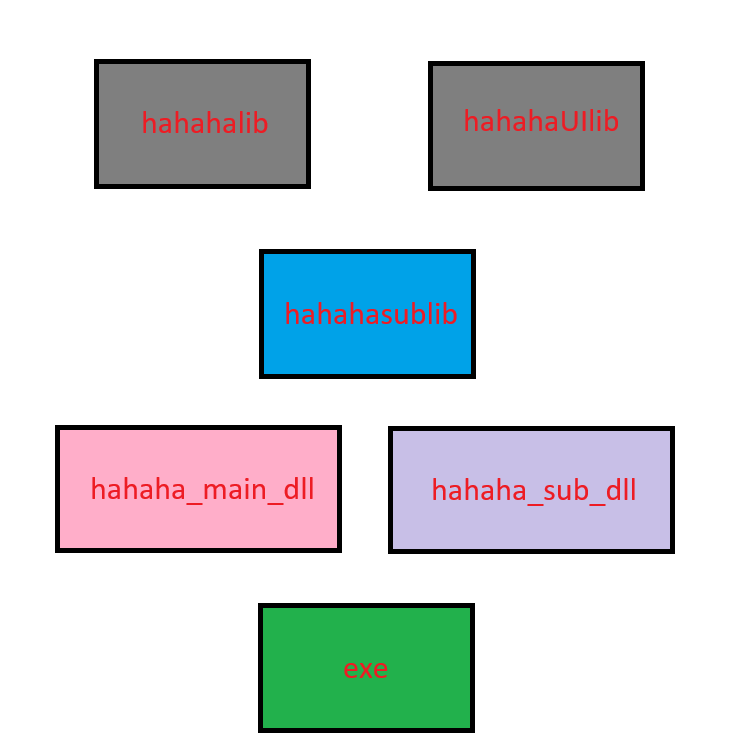
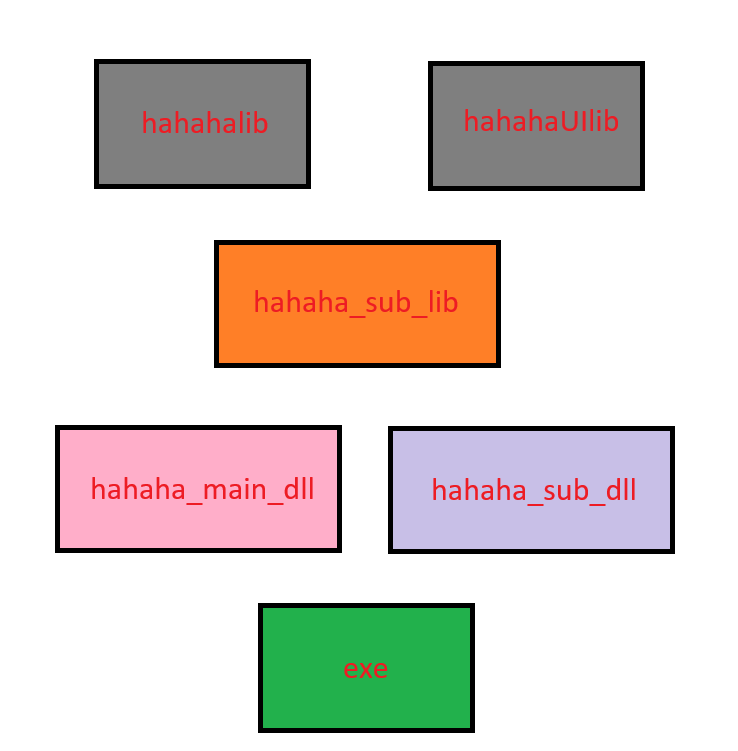
fix

Changed region(s): [[0.2805, 0.3063, 0.6856, 0.5206]]

diff --git a/hahaha_sub_lib/hahaha_sub_lib.cs b/hahaha_sub_lib/hahaha_sub_lib.cs
@@ -1,0 +1,4 @@
+namespace hahahalib
+{
+   
+}
